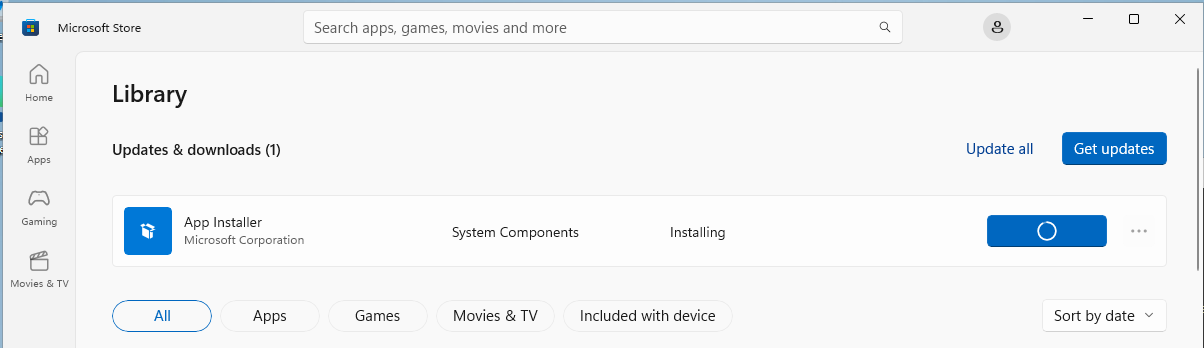
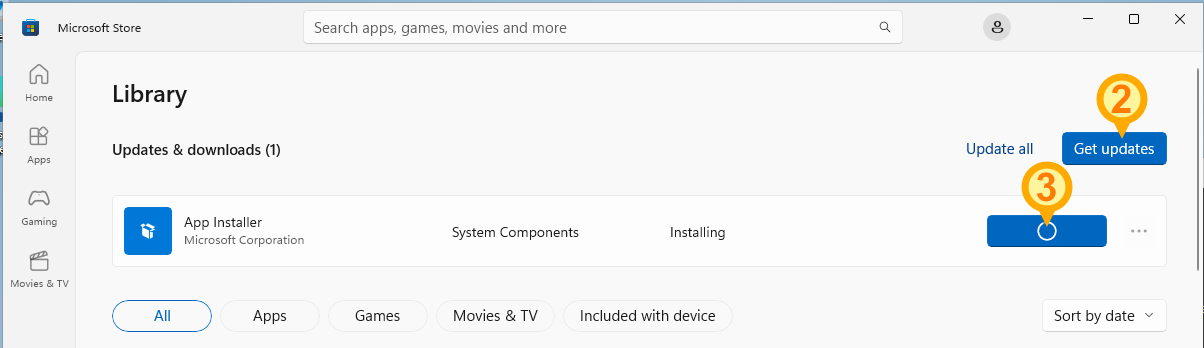
add app installer instructions

Changed region(s): [[0.8912, 0.2011, 0.9527, 0.4023], [0.8297, 0.4598, 0.8912, 0.6322]]

diff --git a/environment_setup/README.md b/environment_setup/README.md
@@ -2,7 +2,7 @@
 This repository contains instructions and scripts to get your computer setup for the Data Science Institute certificate programs.
 
 ## Computer requirements
-Course-work for the certificate program is not computationally intensive. A desktop or laptop computer running a supported version of Windows, Linux, or macOS will suffice.
+Course-work for the certificate program is not computationally intensive and most desktop or laptop computers running a supported version of Windows, Linux, or macOS will suffice.
   - Windows 10 22H2 or later
   - Windows 11 21H2 or later
   - macOS 12 or later
@@ -64,11 +64,10 @@ Copy and paste the following code into your terminal:
 If you are using an up-to-date and supported version of Windows, but don't have winget, try updating your apps in the Microsoft Store.
 - The App Installer component must be updated through the store to use the automatic installation script.
 
-![Update App Installer](image-4.png)
-
 #### On Windows 11
-![Install Microsoft Store Updates](image-2.png)
+<img src="image-2.png" alt="Update App Installer" width="300"/>
+<img src="image-4.png" alt="Update App Installer" width="700"/>
 
 #### On Windows 10
-![Install Microsoft Store Updates](image.png)
-![Install Microsoft Store Updates](image-1.png)
+<img src="image.png" alt="Update App Installer" width="700"/>
+<img src="image-1.png" alt="Update App Installer" width="700"/>
